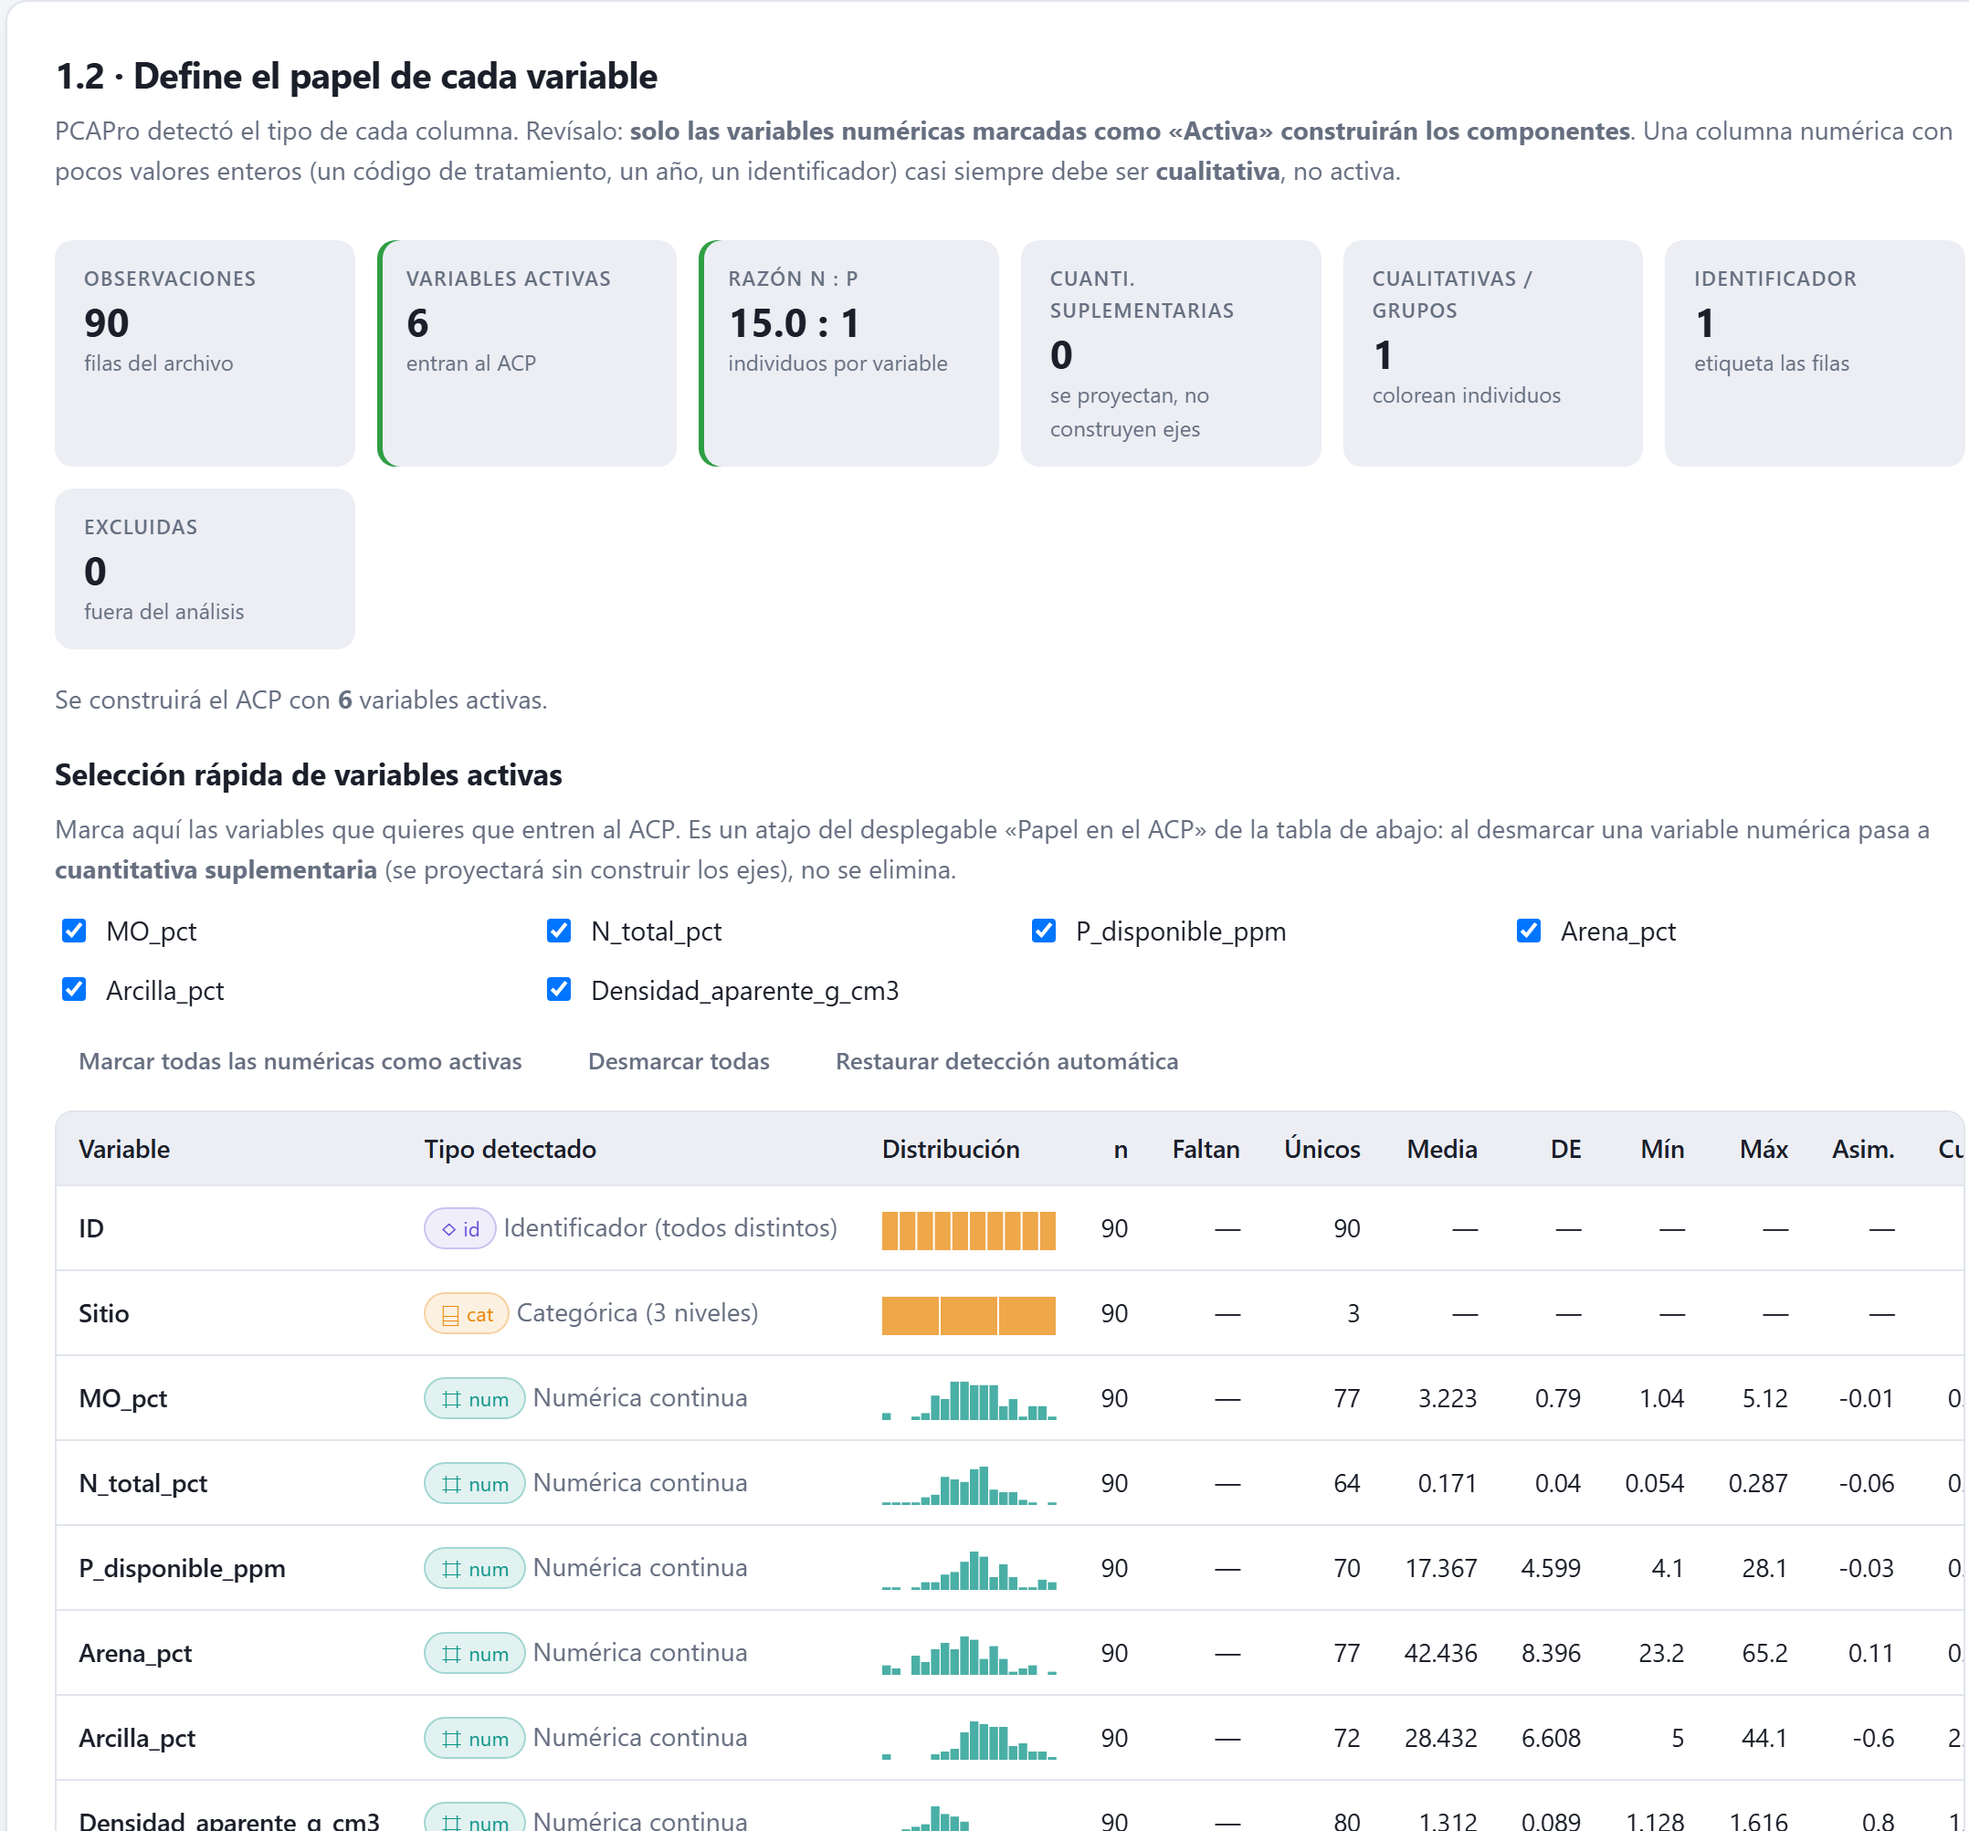
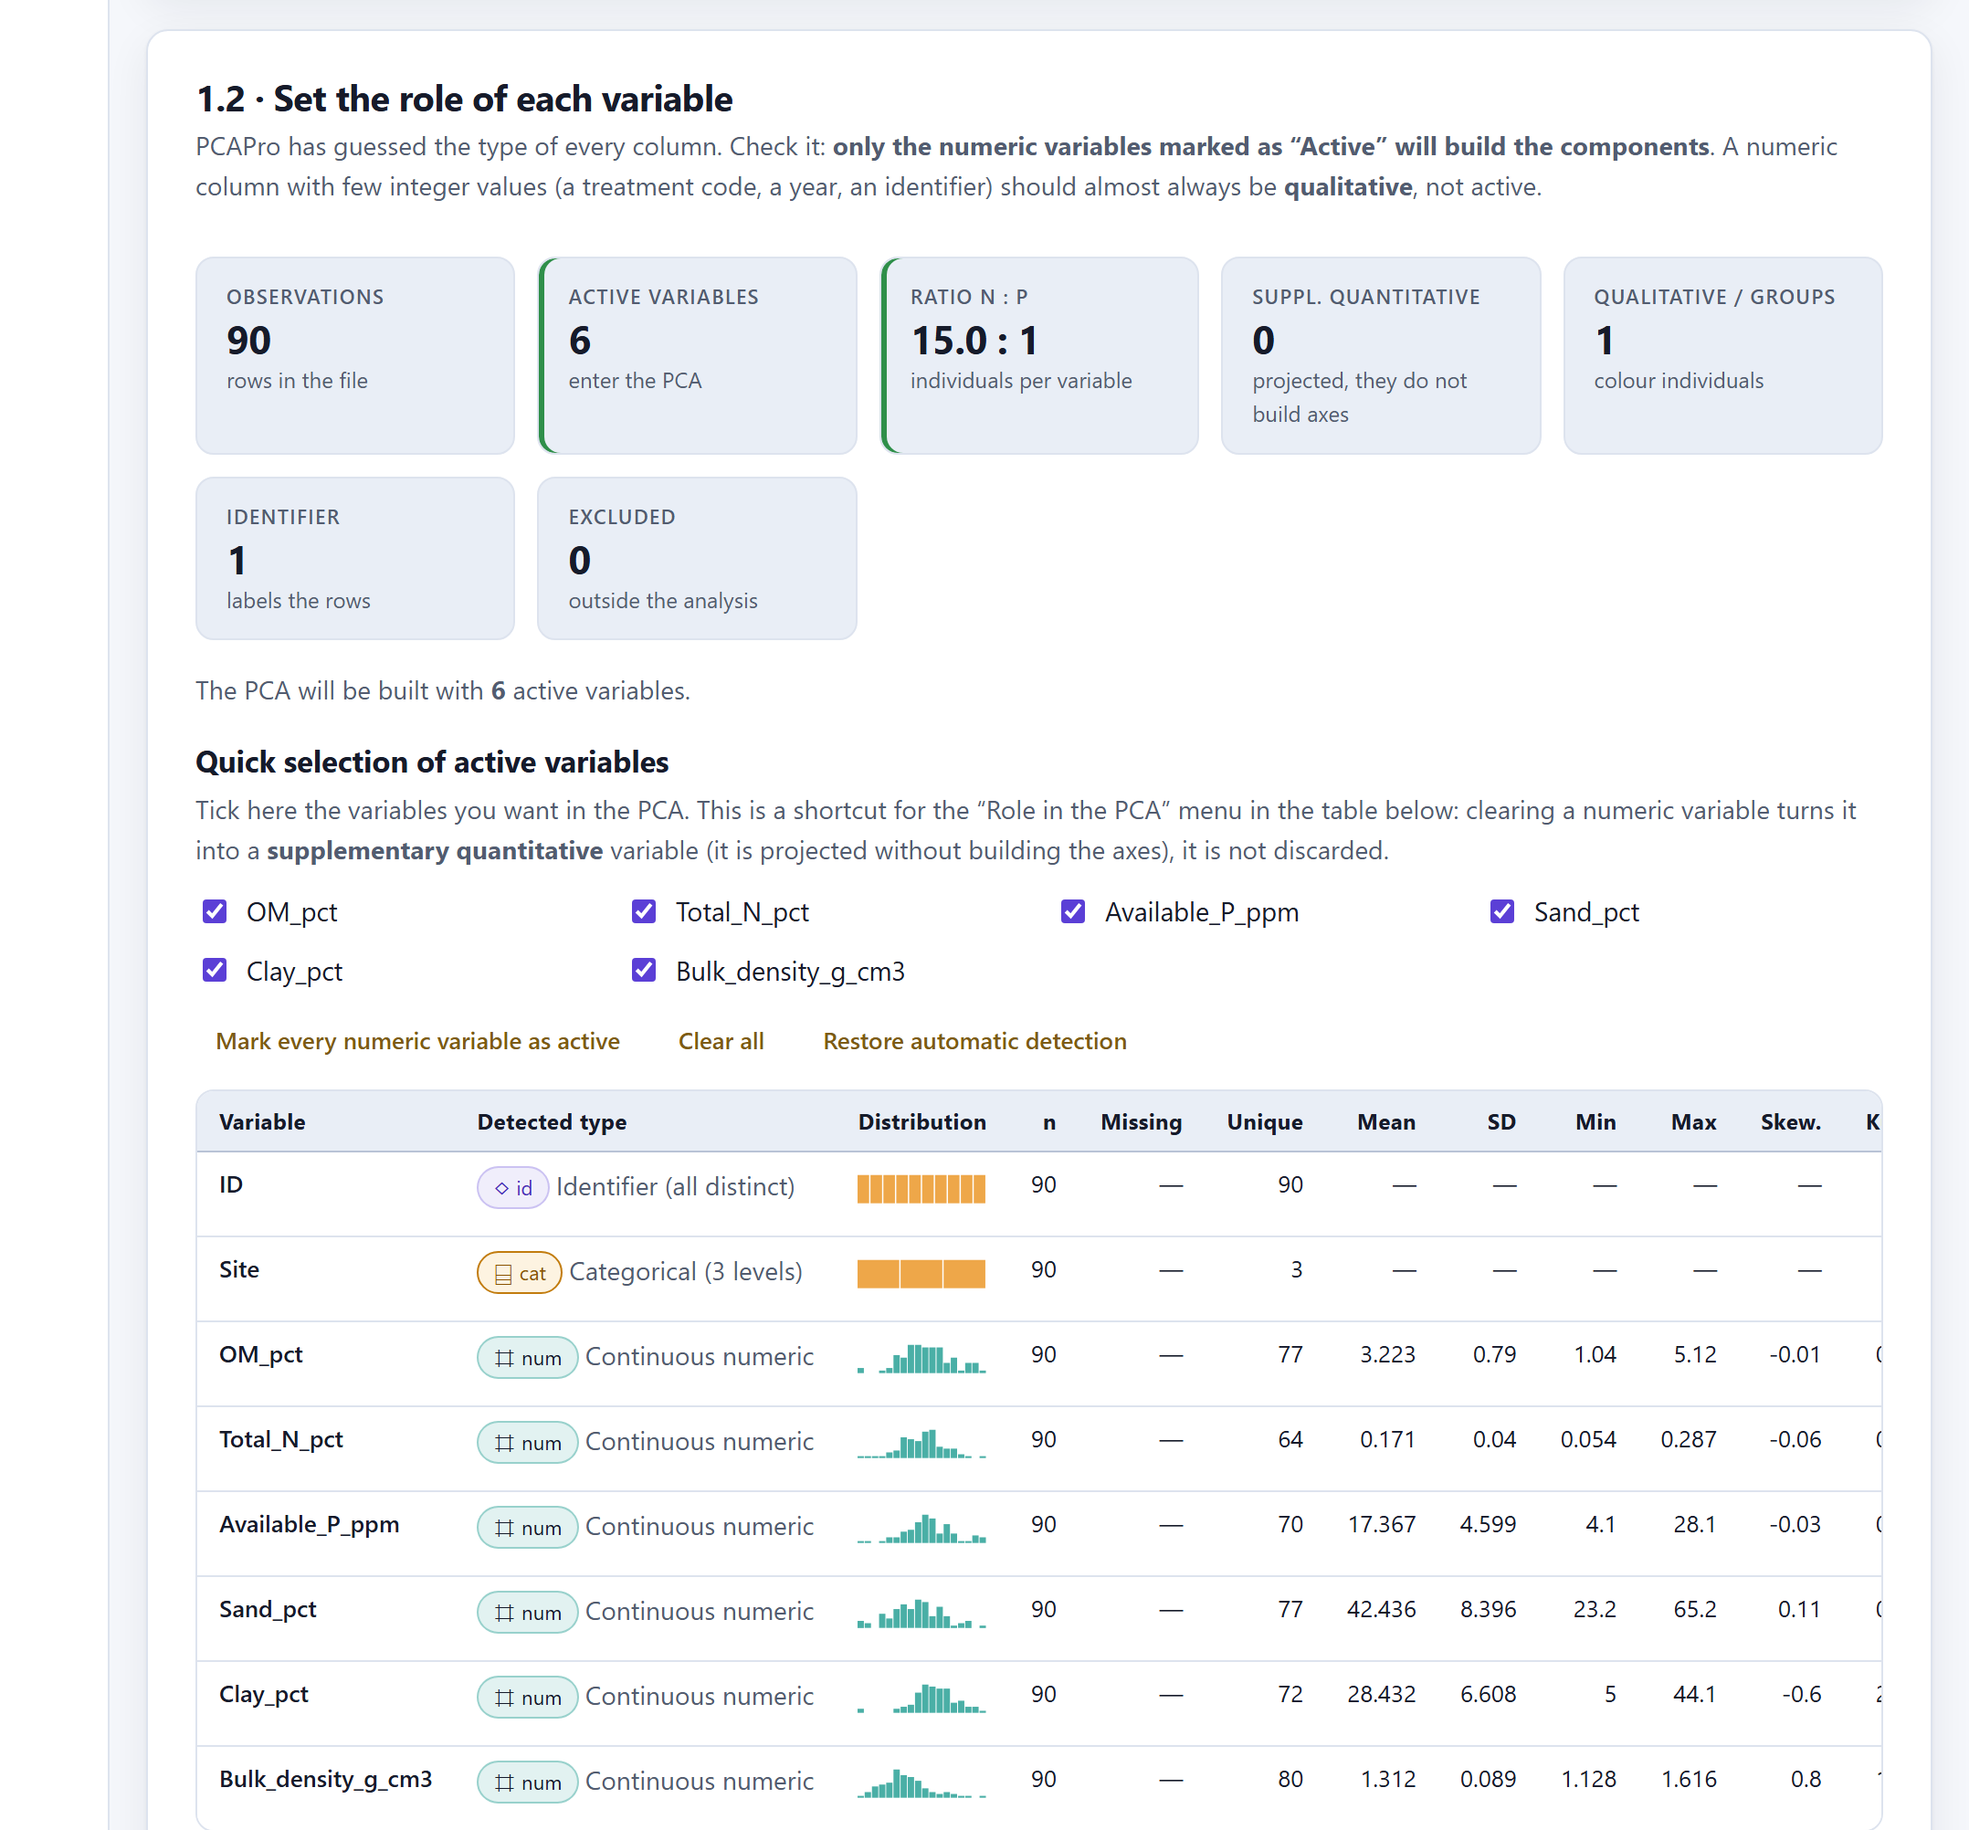
Capturas del manual inglés: las doce primeras, y la herramienta al día
Las capturas del manual eran de la app de septiembre, anteriores al navegador
por bloques y al estudio de figuras (el manual se cerró el 16 de septiembre,
44cc69e, y esas piezas entraron entre el 30 de septiembre y el 4 de octubre).
Por decisión del usuario, las inglesas se toman con la app de hoy y el texto
inglés se ajusta donde las capturas lo contradigan; el manual español queda
como está, con su aviso anotado aparte.

La herramienta de capturas necesitaba tres cosas para esto:

- `tema:light|dark`. El navegador sin ventana sigue el tema del sistema, que
  aquí es oscuro; las figuras del manual van en claro.
- `sec:1.5[,desfase]`, que lleva a la tarjeta por su número de sección. El
  número no cambia con el idioma, así que la misma receta vale en los dos.
- Un paso que falla ya no se lleva por delante el resto de la receta en
  silencio: queda anotado y capturar.ps1 lo imprime. Así se vio que
  `run:extractBtn` no existía —el botón es `runPcaBtn`—, que era la causa de
  que dos capturas salieran sin desplazar y con la teoría abierta.
- `capturar.ps1` acepta una carpeta en -Nombre (en\app-inicio) y la crea.

Doce capturas tomadas con la app en inglés, cargando los datos de datos/en/
para que los nombres de columna salgan también en inglés: la portada, las
siete del Bloque 1 y cuatro del Bloque 2. Las marcas numeradas de la figura
3.4 se recalcularon con `marks:` porque el texto inglés es más alto y la
tarjeta ya no cabía en el encuadre anterior.

diff --git a/manual/herramientas/captura.html b/manual/herramientas/captura.html
@@ -11,10 +11,10 @@
               "http://localhost:8790/manual/herramientas/captura.html?w=1400&h=860&do=lang:es;ex:iris;process;scroll:%23card19"
      Con --dump-dom en lugar de --screenshot, la receta deja en <pre id="marcas"> la posición de los
      elementos pedidos con marks:, en porcentaje de la captura, para colocar las marcas numeradas.
-     Pasos: lang:es|en · ex:iris|sim (carga un ejemplo) · file:archivo.csv (uno de datos/) ·
+     Pasos: lang:es|en · tema:light|dark · barra:abre|cierra · ex:iris|sim (carga un ejemplo) · file:archivo.csv (uno de datos/) ·
             uncheck:Variable (la desmarca en la selección rápida) · process (prepara la matriz y diagnostica) ·
             step:N (botón de la barra; el 5b es step:7) · run:idBoton (espera a que termine) · wait:ms ·
-            scroll:selector[,desfase] · click:selector · open:selector (abre un <details>) ·
+            scroll:selector[,desfase] · sec:1.5[,desfase] (tarjeta por número de sección) · click:selector · open:selector (abre un <details>) ·
             shut:selector (cierra todos los <details> que coincidan) ·
             bloques:Nombre=var1,var2|Nombre2=var3,var4 (bloques del AFM) ·
             select:selector=valor · hide:selector · top · marks:sel1|sel2|… -->
@@ -35,11 +35,25 @@
   const sleep = ms => new Promise(r => setTimeout(r, ms));
   const q = s => d.querySelector(s);
   await sleep(800);
+  /* un paso que falla ya no se lleva por delante el resto de la receta en silencio:
+     se anota en <pre id="marcas">, que es lo que imprime capturar.ps1 */
+  const fallos = [];
   for (const raw of (p.get('do') || '').split(';').filter(Boolean)) {
+   try {
     const i = raw.indexOf(':');
     const cmd = i < 0 ? raw : raw.slice(0, i), arg = i < 0 ? '' : decodeURIComponent(raw.slice(i + 1));
     /* el selector no se entera de un cambio hecho por código: se mueve a mano */
     if (cmd === 'lang') { w.I18N.set(arg); const s = q('#langSelect'); if (s) s.value = arg; await sleep(500); }
+    /* tema:light|dark — el navegador sin ventana sigue el tema del sistema, que suele ser oscuro;
+       las figuras del manual van en claro, así que se fija a mano */
+    else if (cmd === 'tema') { w.LABG.theme.set(arg); await sleep(600); }
+    /* barra:abre|cierra — la barra lateral de bloques del navegador común */
+    else if (cmd === 'barra') {
+      const b = q('.lnav-toggle, .lnav-collapse, [data-lnav-toggle]');
+      const col = d.documentElement.classList.contains('lnav-col') || d.body.classList.contains('lnav-col');
+      if (b && ((arg === 'cierra' && !col) || (arg === 'abre' && col))) b.click();
+      await sleep(600);
+    }
     else if (cmd === 'ex') { q(arg === 'sim' ? '#exampleSim' : '#exampleIris').click(); await sleep(2500); }
     /* file:nombre.csv — un archivo de datos/, entregado por el mismo selector que usa quien lo carga a mano */
     else if (cmd === 'file') {
@@ -66,6 +80,21 @@
       await sleep(300);
       const y = q(sel).getBoundingClientRect().top + w.scrollY - (+off || 12);
       f.style.top = -Math.max(0, y) + 'px'; await sleep(500);
+    }
+    /* sec:1.5[,desfase] — lleva a la tarjeta cuyo título empieza por ese número de sección.
+       El número no cambia con el idioma, así que la misma receta vale en español y en inglés. */
+    else if (cmd === 'sec') {
+      const [num, off] = arg.split(',');
+      const h = [...d.querySelectorAll('.panel:not([hidden]) h2, .card h2')]
+        .find(x => x.textContent.trim().replace(/\s+/g, ' ').startsWith(num + ' ·'));
+      if (h) {
+        const caja = h.closest('.card') || h;
+        f.style.height = Math.max(H, d.documentElement.scrollHeight + 50) + 'px';
+        await sleep(300);
+        const y = caja.getBoundingClientRect().top + w.scrollY - (+off || 12);
+        f.style.top = -Math.max(0, y) + 'px';
+      }
+      await sleep(500);
     }
     else if (cmd === 'click') { q(arg).click(); await sleep(800); }
     else if (cmd === 'open') { q(arg).open = true; await sleep(500); }
@@ -98,6 +127,11 @@
       });
       document.getElementById('marcas').textContent = out.join('\n');
     }
+   } catch (e) { fallos.push('PASO FALLIDO  ' + raw + '  →  ' + e.message); }
+  }
+  if (fallos.length) {
+    const n = document.getElementById('marcas');
+    n.textContent = fallos.join('\n') + (n.textContent ? '\n' + n.textContent : '');
   }
   document.title = 'ready';
 })();

diff --git a/manual/en/03-bloque1.html b/manual/en/03-bloque1.html
@@ -246,13 +246,13 @@
   <figure class="media">
     <div class="marco" style="position:relative">
       <img src="../img/en/app-b1-preparacion.png" alt="Card 1.3 for preparing the matrix">
-      <span class="marca" style="left:15.2%;top:17.2%">1</span>
-      <span class="marca" style="left:71%;top:17.2%">2</span>
-      <span class="marca" style="left:26.5%;top:34.6%">3</span>
-      <span class="marca" style="left:25.4%;top:46%">4</span>
-      <span class="marca" style="left:73.4%;top:66.9%">5</span>
-      <span class="marca" style="left:44.9%;top:85.1%">6</span>
-      <span class="marca" style="left:28.8%;top:91.6%">7</span>
+      <span class="marca" style="left:15.2%;top:17.6%">1</span>
+      <span class="marca" style="left:71%;top:15.1%">2</span>
+      <span class="marca" style="left:26.5%;top:29.9%">3</span>
+      <span class="marca" style="left:25.4%;top:42.4%">4</span>
+      <span class="marca" style="left:73.4%;top:58%">5</span>
+      <span class="marca" style="left:44.9%;top:88%">6</span>
+      <span class="marca" style="left:40.5%;top:93.5%">7</span>
     </div>
     <figcaption><b>Figure 3.4.</b> The <span class="ui">1.3 · Preparing the matrix</span> card.</figcaption>
   </figure>
